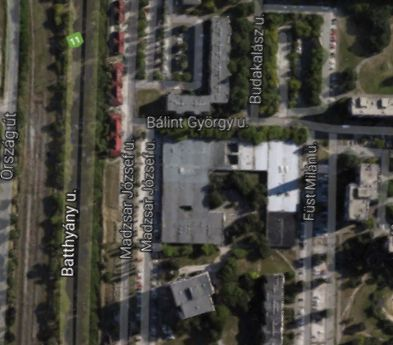
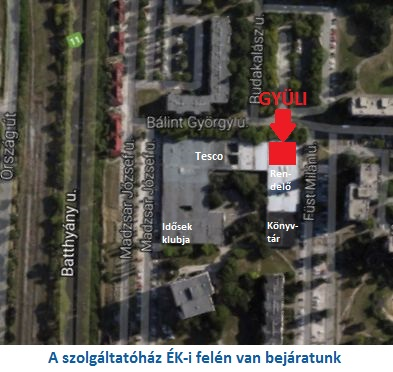
Help map javítása, kiegészítése, kép és szöveg összehangolása címnél (TODO kilóg az ablakból a tartalom olyan tabletes nézet környékén és egy 8mm csúszka megjelenik váááá)

diff --git a/index.html b/index.html
@@ -29,7 +29,7 @@
 </head>
 
 <body>
-    <header class="main-header">
+	<header class="main-header">
         <nav class="navbar navbar-static-top">
             <div class="navbar-top">
                 <div class="container">
@@ -43,19 +43,19 @@
                         <div class="col-sm-6 col-xs-12 text-right">
                             <ul class="list-unstyled list-inline header-social">
                                 <li>
-                                    <a href="https://www.facebook.com/groups/bekasigolgota/" title="Facebook csoport"> <i class="fa fa-facebook"></i> </a>
+                                    <a target="blank" href="https://www.facebook.com/groups/bekasigolgota/" title="Facebook csoport"> <i class="fa fa-facebook"></i> </a>
                                 </li>
                                 <li>
-                                    <a href="http://bekasifi.blogspot.hu/" title="Ifi honlap"> <i class="fa fa-group"></i> </a>
+                                    <a target="blank" href="http://bekasifi.blogspot.hu/" title="Ifi honlap"> <i class="fa fa-group"></i> </a>
                                 </li>
                                 <li>
-                                    <a href="http://kima.hu/" title="Alapítvány"> <i class="fa fa-heart"></i> </a>
+                                    <a target="blank" href="http://kima.hu/" title="Alapítvány"> <i class="fa fa-heart"></i> </a>
                                 </li>
                                 <li>
-                                    <a href="http://barkacsana.kima.hu/" title="Bárka családi napközi"> <i class="fa fa-child"></i> </a>
+                                    <a target="blank" href="http://barkacsana.kima.hu/" title="Bárka családi napközi"> <i class="fa fa-child"></i> </a>
                                 </li>
                                 <li>
-                                    <a href="http://vetitoboszorkany.golgota.hu/" title="Vetítőszolgálat"> <i class="fa fa fa-desktop"></i> </a>
+                                    <a target="blank" href="http://vetitoboszorkany.golgota.hu/" title="Vetítőszolgálat"> <i class="fa fa fa-desktop"></i> </a>
                                 </li>
                             </ul>
                             <!-- /.header-social  -->
@@ -136,8 +136,8 @@
             </div>
             <!-- /.item -->
         </div>
-        <a class="left carousel-control" href="#homeCarousel" role="button" data-slide="prev"> <span class="fa fa-angle-left" aria-hidden="true"></span> <span class="sr-only">Previous</span> </a>
-        <a class="right carousel-control" href="#homeCarousel" role="button" data-slide="next"> <span class="fa fa-angle-right" aria-hidden="true"></span> <span class="sr-only">Next</span> </a>
+        <a class="left carousel-control" href="#homeCarousel" role="button" data-slide="prev"> <span class="fa fa-angle-left" aria-hidden="true"></span> <span class="sr-only">Előző</span> </a>
+        <a class="right carousel-control" href="#homeCarousel" role="button" data-slide="next"> <span class="fa fa-angle-right" aria-hidden="true"></span> <span class="sr-only">Következő</span> </a>
     </div>
     <!-- /.carousel -->
     <div class="section-home about-us fadeIn animated">
@@ -237,7 +237,7 @@
                             </div>
                             <div id="collapse1_2" class="panel-collapse collapse" role="tabpanel" aria-labelledby="heading1_2">
                                 <div class="panel-body">
-									<p class="text-justify">Gyülekezetünk nagy hangsúlyt fektet a családosok és a gyermekek támogatására. Alapítványunk üzemeltet például keresztény bölcsődét <a href="http://barkacsana.kima.hu/">Bárka Családi Napközi</a> néven. Fiatal keresztények számára ifjúsági alkalmakat szervezünk, istentisztelet alatt van gyermekfelügyelet. Fontosnak tartjuk, hogy az ország legnagyobb lakótelepére csöppenve mécsesként világítsunk az itt lakók számára. Lelkipásztorunk 2009. április óta van. </p>
+									<p class="text-justify">Gyülekezetünk nagy hangsúlyt fektet a családosok és a gyermekek támogatására. Alapítványunk üzemeltet például keresztény bölcsődét <a target="blank" href="http://barkacsana.kima.hu/">Bárka Családi Napközi</a> néven. Fiatal keresztények számára ifjúsági alkalmakat szervezünk, istentisztelet alatt van gyermekfelügyelet. Fontosnak tartjuk, hogy az ország legnagyobb lakótelepére csöppenve mécsesként világítsunk az itt lakók számára. Lelkipásztorunk 2009. április óta van. </p>
                                 </div>
                             </div>
                         </div>
@@ -336,11 +336,13 @@
                             </div>
                         </div>
                     </div>
-                </div>
                 <!-- négyes box -->
-            </div>
+                </div>
             <!-- Alkalom vége -->
+            </div>
+        <!-- Container vége -->
         </div>
+    <!-- Onepager vége -->
     </div>
     <div class="section-home our-causes animate-onscroll fadeIn">
         <div class="container">
@@ -371,11 +373,11 @@
                             <div id="collapse2_2" class="panel-collapse collapse" role="tabpanel" aria-labelledby="heading2_2">
                                 <div class="panel-body">
                                     <ul>
-                                        <li><a href="http://www.golgotabudapest.hu/">A gyülekezet központi lapja</a></li>
-                                        <li><a href="http://www.golgotabudapest.hu/tortenetunk/magyarorszagon/">Golgota Gyülekezet Magyarországon</a></li>
-                                        <li><a href="http://hu.wikipedia.org/wiki/Golgota_Kereszt%C3%A9ny_Gy%C3%BClekezet">Wikipédia szócikk</a></li>
-                                        <li><a href="http://vattee.googlepages.com/ggys">A Golgota gyülekezetek sajátosságai</a></li>
-                                        <li><a href="http://gtf.ccbce.com/">Golgota Teológiai Főiskola</a></li>
+                                        <li><a target="blank" href="http://www.golgotabudapest.hu/">A gyülekezet központi lapja</a></li>
+                                        <li><a target="blank" href="http://www.golgotabudapest.hu/tortenetunk/magyarorszagon/">Golgota Gyülekezet Magyarországon</a></li>
+                                        <li><a target="blank" href="http://hu.wikipedia.org/wiki/Golgota_Kereszt%C3%A9ny_Gy%C3%BClekezet">Wikipédia szócikk</a></li>
+                                        <li><a target="blank" href="http://vattee.googlepages.com/ggys">A Golgota gyülekezetek sajátosságai</a></li>
+                                        <li><a target="blank" href="http://gtf.ccbce.com/">Golgota Teológiai Főiskola</a></li>
                                     </ul>
                                 </div>
                             </div>
@@ -391,39 +393,39 @@
                                 <div class="panel-body">
                                 	<div class="col-lg-4">
                                     	<ul>
-											<li><a href="http://baja.golgota.hu/">Baja</a></li>
+											<li><a target="blank" href="http://baja.golgota.hu/">Baja</a></li>
 											<li><i>Budapest, Békásmegyer</i></li>
-											<li><a href="http://golgotabudapest.hu/">Budapest, Erzsébet körút</a></li>
-											<li><a href="http://delpest.golgota.hu/">Budapest, Dél-Pest</a></li>
-											<li><a href="http://www.golgotabudapest.hu/hu/helyszinek/xi-keruelet.html">Budapest, Újbuda</a></li>
-											<li><a href="http://debrecen.golgota.hu/">Debrecen</a></li>
-											<li><a href="http://dunaujvaros.golgota.hu/">Dunaújváros</a></li>
-											<li><a href="http://eger.golgota.hu/">Eger</a></li>
-											<li><a href="http://esztergom.golgota.hu/">Esztergom</a></li>
+											<li><a target="blank" href="http://golgotabudapest.hu/">Budapest, Erzsébet körút</a></li>
+											<li><a target="blank" href="http://delpest.golgota.hu/">Budapest, Dél-Pest</a></li>
+											<li><a target="blank" href="http://www.golgotabudapest.hu/hu/helyszinek/xi-keruelet.html">Budapest, Újbuda</a></li>
+											<li><a target="blank" href="http://debrecen.golgota.hu/">Debrecen</a></li>
+											<li><a target="blank" href="http://dunaujvaros.golgota.hu/">Dunaújváros</a></li>
+											<li><a target="blank" href="http://eger.golgota.hu/">Eger</a></li>
+											<li><a target="blank" href="http://esztergom.golgota.hu/">Esztergom</a></li>
 										</ul>
 									</div>
                                     <div class="col-lg-4">
                                     	<ul>
-											<li><a href="http://golgotagyor.blogspot.com/">Győr</a></li>
-											<li><a href="http://kaposvar.golgota.hu/">Kaposvár</a></li>
-											<li><a href="https://kecskemet.golgota.hu/index.php/hu/">Kecskemét</a></li>
-											<li><a href="http://www.halado.hu/">Miskolc</a></li>
-											<li><a href="http://nyiregyhaza.golgota.hu/">Nyíregyháza</a></li>
-											<li><a href="http://golgotapecs.hu/">Pécs</a></li>
+											<li><a target="blank" href="http://golgotagyor.blogspot.com/">Győr</a></li>
+											<li><a target="blank" href="http://kaposvar.golgota.hu/">Kaposvár</a></li>
+											<li><a target="blank" href="https://kecskemet.golgota.hu/index.php/hu/">Kecskemét</a></li>
+											<li><a target="blank" href="http://www.halado.hu/">Miskolc</a></li>
+											<li><a target="blank" href="http://nyiregyhaza.golgota.hu/">Nyíregyháza</a></li>
+											<li><a target="blank" href="http://golgotapecs.hu/">Pécs</a></li>
 											<li>Sárbogárd</li>
-											<li><a href="http://sopron.golgota.hu/">Sopron</a></li>
+											<li><a target="blank" href="http://sopron.golgota.hu/">Sopron</a></li>
                                     	</ul>
 									</div>
                                		<div class="col-lg-4">
                                     	<ul>
-											<li><a href="http://golgotaszeged.hu/">Szeged</a></li>
-											<li><a href="http://golgotaszekesfehervar.blogspot.com/">Székesfehérvár</a></li>
-											<li><a href="http://szolnok.golgota.hu/">Szolnok</a></li>
+											<li><a target="blank" href="http://golgotaszeged.hu/">Szeged</a></li>
+											<li><a target="blank" href="http://golgotaszekesfehervar.blogspot.com/">Székesfehérvár</a></li>
+											<li><a target="blank" href="http://szolnok.golgota.hu/">Szolnok</a></li>
 											<li>Szombathely</li>
-											<li><a href="http://tatabanya.golgota.hu/">Tatabánya</a></li>
+											<li><a target="blank" href="http://tatabanya.golgota.hu/">Tatabánya</a></li>
 											<li>Tompa</li>
-											<li><a href="http://vac.golgota.hu/">Vác</a></li>
-											<li><a href="http://vese.golgota.hu/">Vése</a></li>
+											<li><a target="blank" href="http://vac.golgota.hu/">Vác</a></li>
+											<li><a target="blank" href="http://vese.golgota.hu/">Vése</a></li>
 										</ul>
 									</div>
                                 </div> <!-- panel-body -->
@@ -582,7 +584,7 @@
             <div class="container" id="media">
             	<h2 class="title-style-1">Média<span class="title-under"></span></h2>
             	<br>
-            	<div class="contact-items">
+            	<div class="media-items">
                 	<div class="text-center container">
 						<!-- Trigger the modal with a button -->
 						<button type="button" class="btn btn-info btn-lg" data-toggle="modal" data-target="#kepek" id="keptar"><img src="">Képalbum </button>
@@ -682,40 +684,41 @@
 				</div>
             </div>
             <!-- Média vége --> 
-               
             <div class="container" id="cim">
                 <h2 class="title-style-1">Címünk<span class="title-under"></span></h2>
-                <div class="contact-items">
+                <div class="row contact-items">
                     <ul class="list-unstyled contact-items-list">
-                        <li class="contact-item"> <span class="contact-icon"> <i class="fa fa-map-marker"></i></span> <b><a target="blank" href="https://www.google.ca/maps/place/B%C3%A9k%C3%A1si+Golgota+Kereszt%C3%A9ny+Gy%C3%BClekezet/@47.6014605,19.0576722,17z/data=!3m1!4b1!4m5!3m4!1s0x4741d76051961d01:0x13f72ec35bc644fe!8m2!3d47.6014569!4d19.0598609">1039, Budapest, Madzsar József utca 7-11.</a></b>&emsp;&emsp;A zöld szolgáltatóház ÉK-i sarkán vagyunk :)</li>
+						<li class="contact-item"> <span class="contact-icon"> <i class="fa fa-map-marker"></i></span><b><a target="blank" href="https://www.google.ca/maps/place/B%C3%A9k%C3%A1si+Golgota+Kereszt%C3%A9ny+Gy%C3%BClekezet/@47.6014605,19.0576722,17z/data=!3m1!4b1!4m5!3m4!1s0x4741d76051961d01:0x13f72ec35bc644fe!8m2!3d47.6014569!4d19.0598609">1039, Budapest, Madzsar József utca 7.</a></b></li>
                     </ul>
+					<p><img src="assets/images/gy%C3%BCli_map_help.jpg"></p>
 					<p class="text-justify"> <b>Megközelítés autóval</b></p>
-                        <ul>
-                            <li><b>Óbuda felől</b>
-                                <p class="text-justify">
-                                	<br>A 11-es úton vezess el a Pünkösdfürdő utcáig (HÉV-átjáró, Shell-benzinkút). A jelzőlámpánál fordulj jobbra a lakótelep felé, de utána szinte azonnal, 10 méter múlva a 11-es főúttól első párhuzamos utcába balra kanyarodj. A piacot elhagyva, a tizenöt emeletes házak után fordulj a kis zöld szolgáltatóházhoz jobbra (ez az útszakasz kb. 700 méter). Azon az úton a szolgáltatóház végéig érdemes eljönni mert ott vagyunk (a tömb ÉK-i oldalánál). <br><br>
-								</p>
-                            </li>
-                            <li><b>Szentendre, Pomáz és a Megyeri-híd felől</b>
-                                <p class="text-justify">
-                                	<br>Az M0-ás (Megyeri híd) csomópontja után az első jelzőlámpánál fordulj balra! A lekanyarodást követően kb. 300 métert kell megtenni a 11-es úttal párhuzamosan, majd újfent kanyarodj balra, amikor meglátod a zöld tetős szolgáltatóházat. Azon az úton a szolgáltatóház végéig érdemes eljönni mert ott vagyunk (a tömb ÉK-i oldalánál). 
-								</p>
-                            </li>
-                        </ul>
-                        <br>
+					<ul>
+						<li><b>Óbuda felől</b>
+							<p class="text-justify">
+								<br>A 11-es úton vezess el a Pünkösdfürdő utcáig (HÉV-átjáró, Shell-benzinkút). A jelzőlámpánál fordulj jobbra a lakótelep felé, de utána szinte azonnal, 10 méter múlva a 11-es főúttól első párhuzamos utcába balra kanyarodj. A piacot elhagyva, a tizenöt emeletes házak után fordulj a kis zöld szolgáltatóházhoz jobbra (ez az útszakasz kb. 700 méter). Azon az úton a szolgáltatóház végéig érdemes eljönni mert ott vagyunk (a tömb ÉK-i oldalánál). <br><br>
+							</p>
+						</li>
+						<li><b>Szentendre, Pomáz és a Megyeri-híd felől</b>
+							<p class="text-justify">
+								<br>Az M0-ás (Megyeri híd) csomópontja után az első jelzőlámpánál fordulj balra! A lekanyarodást követően kb. 300 métert kell megtenni a 11-es úttal párhuzamosan, majd újfent kanyarodj balra, amikor meglátod a zöld tetős szolgáltatóházat. Azon az úton a szolgáltatóház végéig érdemes eljönni mert ott vagyunk (a tömb ÉK-i oldalánál). 
+							</p>
+						</li>
+					</ul>
+					<br>
 					<b>Tömegközlekedéssel</b>
-                        <p class="text-justify">
-                            <br>Az Árpád híd, metróállomás és az Újmegyeri tér között közlekedő <a href="http://www.bkk.hu/tomegkozlekedes/utazasi-informaciok/menetrendek/#34"><strong>34</strong></a>-es, a Rákospalota felől a Megyeri hídon át érkező <a href="http://www.bkk.hu/tomegkozlekedes/utazasi-informaciok/menetrendek/#204"><strong>204</strong></a>-es és a Káposztásmegyer érintésével Újpalotáról induló <a href="http://www.bkk.hu/tomegkozlekedes/utazasi-informaciok/menetrendek/#296"><strong>296</strong></a>-os busz „Szolgáltatóház” megállója van a legközelebb, de gyülekezetünk megközelíthető a <a href="http://www.bkk.hu/tomegkozlekedes/utazasi-informaciok/menetrendek/#H5"><strong>H5</strong></a> HÉV-vel, vagy a <a href="http://www.bkk.hu/tomegkozlekedes/utazasi-informaciok/menetrendek/#134"><strong>134</strong></a>, <a href="http://www.bkk.hu/tomegkozlekedes/utazasi-informaciok/menetrendek/#143"><strong>143</strong></a>, <a href="http://www.bkk.hu/tomegkozlekedes/utazasi-informaciok/menetrendek/#160"><strong>160</strong></a>, <a href="http://www.bkk.hu/tomegkozlekedes/utazasi-informaciok/menetrendek/#186"><strong>186</strong></a>, <a href="http://www.bkk.hu/tomegkozlekedes/utazasi-informaciok/menetrendek/#243"><strong>243</strong></a> és a <a href="http://www.bkk.hu/tomegkozlekedes/utazasi-informaciok/menetrendek/#204"><strong>204</strong></a>-es buszokkal Békásmegyer HÉV-állomásig, majd a Madzsar József utcán 500 métert gyalogolva.
-                            <br>
-                            <br> A buszmenetrendeket a járatszámra kattintva lehet megtekinteni.
-                        </p>
+					<p class="text-justify">
+						<br>Az Árpád híd, metróállomás és az Újmegyeri tér között közlekedő <a target="blank" href="http://www.bkk.hu/tomegkozlekedes/utazasi-informaciok/menetrendek/#34"><strong>34</strong></a>-es, a Rákospalota felől a Megyeri hídon át érkező <a target="blank" href="http://www.bkk.hu/tomegkozlekedes/utazasi-informaciok/menetrendek/#204"><strong>204</strong></a>-es és a Káposztásmegyer érintésével Újpalotáról induló <a target="blank" href="http://www.bkk.hu/tomegkozlekedes/utazasi-informaciok/menetrendek/#296"><strong>296</strong></a>-os busz „Szolgáltatóház” megállója van a legközelebb, de gyülekezetünk megközelíthető a <a target="blank" href="http://www.bkk.hu/tomegkozlekedes/utazasi-informaciok/menetrendek/#H5"><strong>H5</strong></a> HÉV-vel, vagy a <a target="blank" href="http://www.bkk.hu/tomegkozlekedes/utazasi-informaciok/menetrendek/#134"><strong>134</strong></a>, <a target="blank" href="http://www.bkk.hu/tomegkozlekedes/utazasi-informaciok/menetrendek/#143"><strong>143</strong></a>, <a target="blank" href="http://www.bkk.hu/tomegkozlekedes/utazasi-informaciok/menetrendek/#160"><strong>160</strong></a>, <a target="blank" href="http://www.bkk.hu/tomegkozlekedes/utazasi-informaciok/menetrendek/#186"><strong>186</strong></a>, <a target="blank" href="http://www.bkk.hu/tomegkozlekedes/utazasi-informaciok/menetrendek/#243"><strong>243</strong></a> és a <a target="blank" href="http://www.bkk.hu/tomegkozlekedes/utazasi-informaciok/menetrendek/#204"><strong>204</strong></a>-es buszokkal Békásmegyer HÉV-állomásig, majd a Madzsar József utcán 500 métert gyalogolva.
+						<br>
+						<br> A buszmenetrendeket a járatszámra kattintva lehet megtekinteni.
+                                         
+					</p>
                 </div>
+                
             </div>
             <!-- Címünk vége -->
         </div>
         <!-- container vége -->
     </div>
-    <!-- Onepager vége -->
     <div id="contact-map" class="contact-map"></div>
     <!-- Google map -->
     <footer class="main-footer">

diff --git a/assets/css/style.css b/assets/css/style.css
@@ -554,6 +554,10 @@ a:active {
     margin-top: 7px;
 }
 
+.contact-items img {
+		float: right;
+		margin-left:10px;
+}
 
 /* contact 
 ================================= */
@@ -889,6 +893,7 @@ form .alert {
     .reasons-col:hover .on-hover {
         padding: 25px;
     }
+
 }
 
 
@@ -916,6 +921,7 @@ form .alert {
     .footer-col {
         margin-bottom: 50px;
     }
+	
 }
 
 
@@ -977,6 +983,7 @@ form .alert {
     .col-form {
         margin-bottom: 25px;
     }
+	
 }
 
 
@@ -995,9 +1002,22 @@ form .alert {
     .carousel-home .carousel-indicators {
         bottom: 0;
     }
+	.contact-items img {
+		float: left;
+		margin: 5px 400px 10px 60px;
+	}
+	
 }
-
-
+@media (max-width: 550px) {
+	.contact-items img {
+			max-height: 280px;
+	}
+}
+@media (max-width: 430px) {
+	.contact-items img {
+			max-height: 180px;
+	}
+}
 /* =============================================================================
 	Animations
 ========================================================================== */
